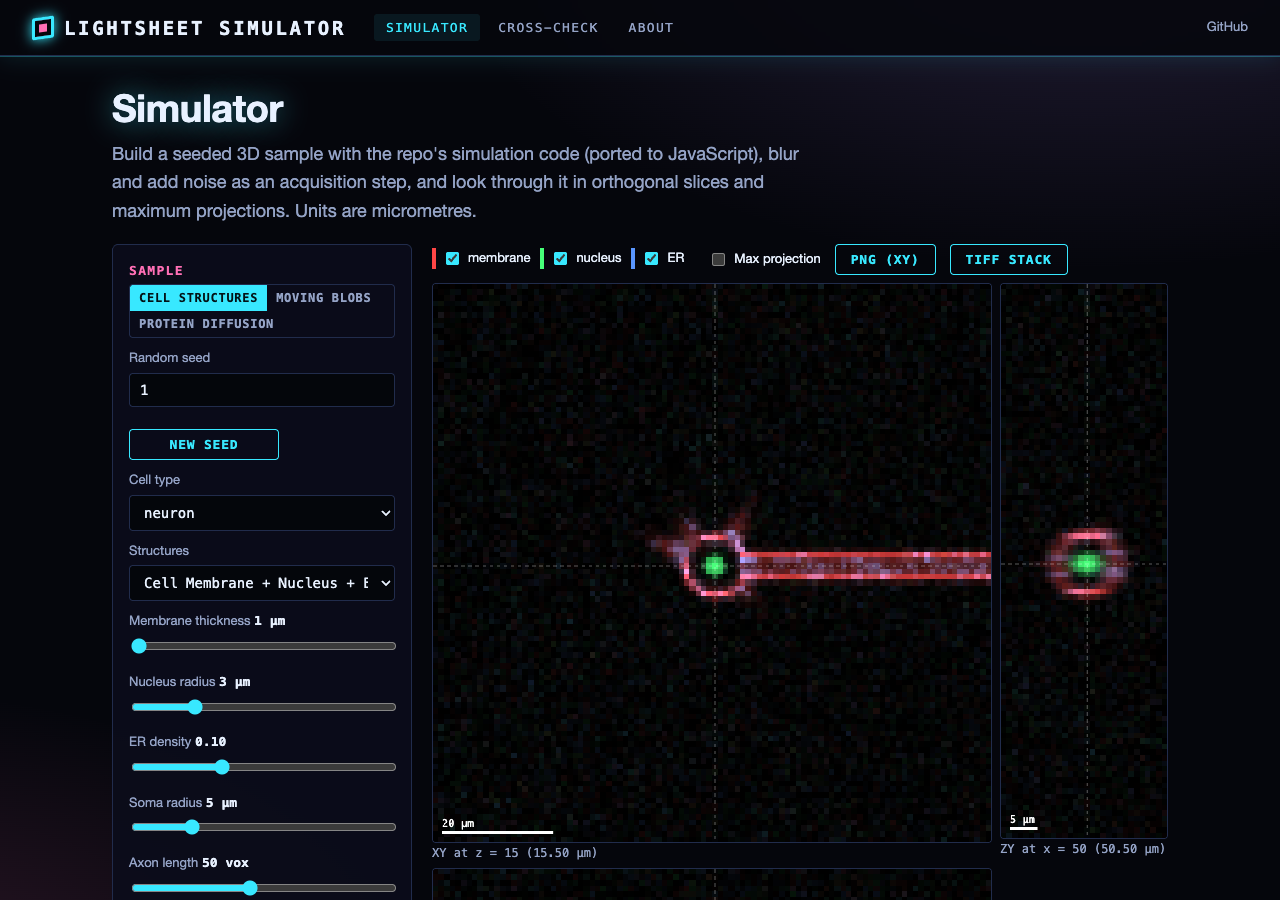
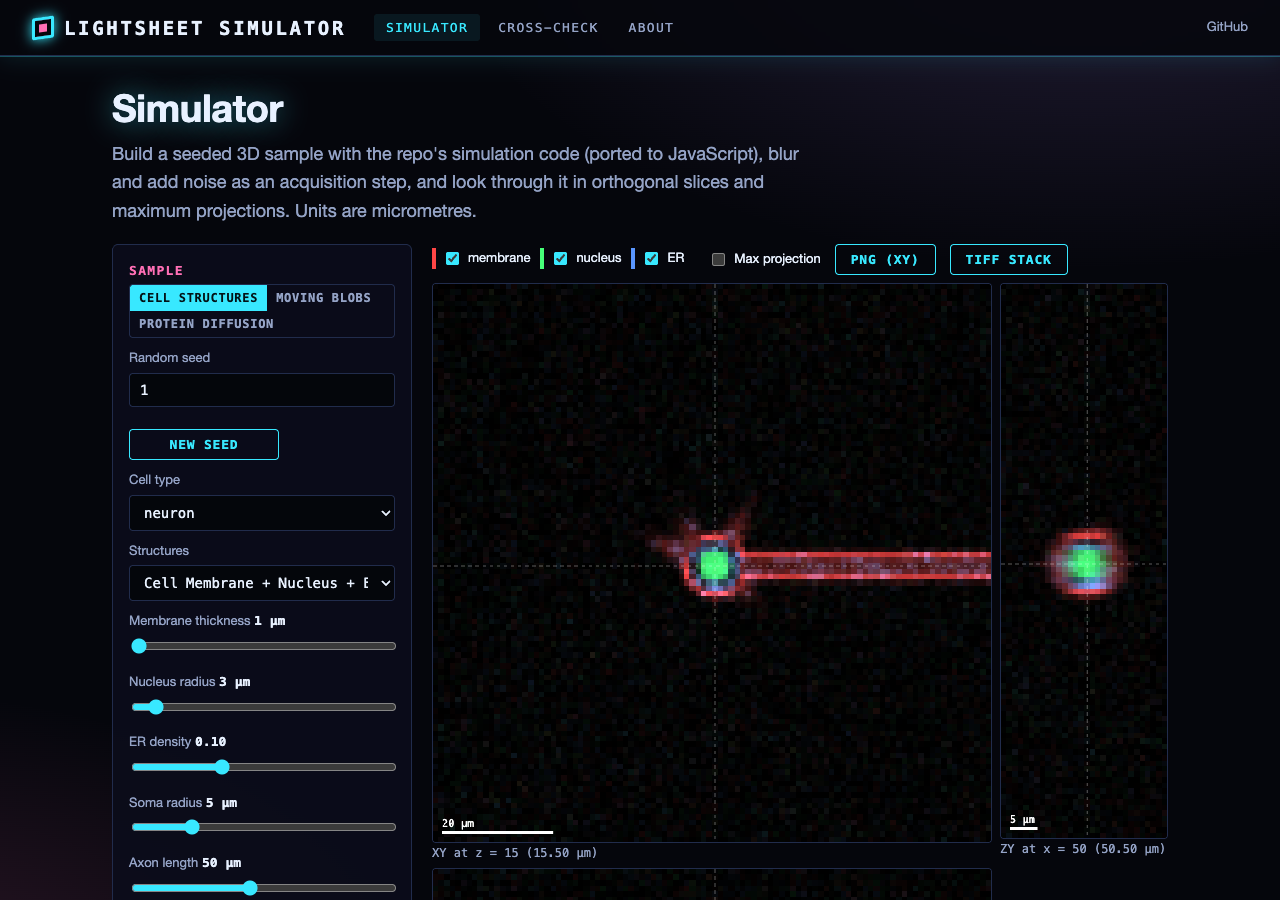
Update session log, interface map and screenshots after the follow-up fixes

Changed region(s): [[0.8125, 0.5911, 0.875, 0.6533], [0.5312, 0.5911, 0.5938, 0.6533], [0.125, 0.7778, 0.1562, 0.8089]]

diff --git a/SESSION_LOG.md b/SESSION_LOG.md
@@ -21,13 +21,22 @@ acquisition step (Gaussian blur in µm, additive Gaussian noise). Seeded volumes
 PNG of the XY view, ImageJ float32 TIFF with voxel size (verified with tifffile). Worker thread; default volume builds
 in 0.1-0.6 s.
 
-**Needs George's decision** (not changed):
-- Nucleus radius: the viewer asks max(5, min(r, soma//2)), then `generate_nucleus` caps it at (min(size)//4)//3 = 2 at
-  the default volume, so the form's nucleus radius barely matters, and `generate_er` excludes the uncapped radius.
-- `simulate_angular_recording` rotates axes (1, 2); for the GUI's 5D (t, c, z, y, x) data that mixes channels with z.
-  Which spatial axes the rotation should use is unclear (the 4D generators use mixed axis orders).
-- `find_suitable_center` sorts candidates farthest-first (argsort of -distance), probably meant nearest-first;
-  effect is small (candidates are within one voxel of the same radius).
-- Units: the form's "Pixel Size" has no unit (web treats it as µm); radii are in physical units, axon/dendrite
-  lengths in voxels, neuron membrane thickness in dilation steps.
-- `gui/viewer.py` (964 lines) and `simulateLightSheetData.py` (~2900) exceed the 500-line rule (pre-existing).
+**Needs George's decision**: answered by George (2026-11-11, "fix ... any other problems"); see the next entry.
+
+## 2026-11-11 (later) — follow-up fixes requested by George (branch `web-interface`)
+
+Each in `simulator.py` / `data_generator.py`, the original monolith (which now shares these methods with the modules
+instead of keeping its own copies) and the JS engine, with regression tests and a "Fix ..." commit:
+1. Nucleus radius: the viewer's max(5, min(r, soma//2)) rule and generate_nucleus's (min(size)//4)//3 cap are gone;
+   the form value (µm, range now 1-30) is used and the nucleus is clipped to the cell interior. find_suitable_center
+   measures the fit in µm. (The monolith's own find_suitable_center also overwrote its search-distance map.)
+2. simulate_angular_recording / correct_angular_recording rotate only spatial axes (first two of the last three);
+   4-D data unchanged, 5-D channels no longer mixed with z. Not ported to JS (not part of the web simulator).
+3. Neuron axon length/width and dendrite length are µm, converted with the voxel size; the form row reads
+   "Pixel size (µm; z, y, x)" with boxes in that order, and radius/length fields show µm.
+Fixture regenerated (new anisotropic neuron case): node test 2151 checks, pytest 75 passed, browser cross-check 17/17,
+static and server smoke tests ok; both desktop apps run Simulate offscreen for every cell type.
+
+Still open (not asked): membrane thickness is µm for spherical/muscle but dilation steps for neurons and voxels for
+epithelial cells; find_suitable_center tries the farthest candidates first; gui/viewer.py (964 lines) and
+simulateLightSheetData.py (~2650) exceed the 500-line rule.

diff --git a/INTERFACE.md b/INTERFACE.md
@@ -16,7 +16,7 @@
 | `gui/roi.py` | `ROI3D` OpenGL mesh item |
 | `gui/viewer.py` | `LightsheetViewer` main application window (docks, 2D/3D views, blob detection, playback) |
 | `tests/test_simulator.py` | Smoke tests for `BiologicalSimulator`, `DataGenerator`, `VolumeProcessor`, `line_3d` |
-| `tests/test_regressions.py` | Regression tests for fixed bugs (line_3d, dendrite bounds, pixel-size order, cell-shape broadcasting) |
+| `tests/test_regressions.py` | Regression tests for fixed bugs (line_3d, dendrite bounds, pixel-size order and label, cell-shape broadcasting, nucleus radius, angular-recording axes, neuron lengths in µm) |
 | `tests/test_web.py` | Web API, static build, fixture currency, TIFF export round trip, node engine tests |
 | `tests/fixtures/engine_fixture.json` | Python reference values for the JS engine (from `scripts/make_engine_fixture.py`) |
 | `web/app.py` | FastAPI app: `/api/info`, `/api/params`, `/api/check` (GET + POST), `STATIC_ENDPOINTS` |
@@ -51,5 +51,6 @@ web/app.py -> web/pipeline.py -> structure_pipeline.py, data_generator.py, simul
 web/static/pipeline.js -> np_random.js, ndimage.js, cells_engine.js, dynamics_engine.js  (mirror of web/pipeline.py)
 ```
 
-Note: `simulateLightSheetData.py` keeps its own copies of the classes (it imports only `line_3d` from `utils.py`);
-bug fixes are applied to both copies.
+Note: `simulateLightSheetData.py` keeps its own copies of the classes, but shares `line_3d` (utils.py),
+`generate_cell_shape` / `generate_nucleus` / `find_suitable_center` (simulator.py) and the angular-recording methods
+(data_generator.py) with the modules; other fixes are applied to both copies.
